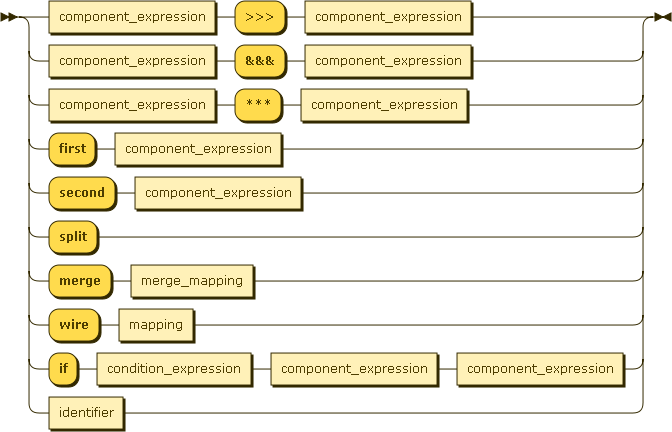
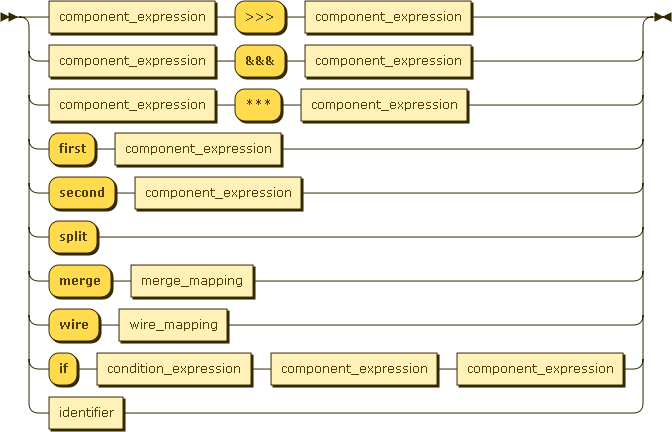
More PCLc documentation.

Changed region(s): [[0.25, 0.6921, 0.3438, 0.8125], [0.1875, 0.7222, 0.2188, 0.7824]]

diff --git a/documentation/chapters/compiler/compiler.tex b/documentation/chapters/compiler/compiler.tex
@@ -1,32 +1,93 @@
 \newcommand{\DiagramScale}{0.6}
 \chapter{PCLc}
+PLCc is the PCL compiler. It is located in the \texttt{src/pclc} directory of the Git clone and your path should be set according. This chapter introduces the PCL syntax using \emph{railroad diagrams}. Railroad diagrams illustrate valid PCL and are read from left to right, following the lines as a train would. The symbols in the yellow ovals are to be typed \emph{as is}. The symbols in the tan rectangles references another railroad diagram. The referenced diagram should be used to expand the rectangle in more valid PCL. Hexagons contain \emph{character classes} and specify a range of characters that will be accepted.
 
-\section{Syntax}
-\begin{figure}[!h]
+\section{PCL Syntax}
+\begin{figure}[h!]
   \centering
     \includegraphics[scale=\DiagramScale,angle=90]{chapters/compiler/diagrams/component}
   \caption{PCL file syntax.}
   \label{fig:pcl-top-level}
 \end{figure}
+The top level symtax of a PCL file is shown in Figure \ref{fig:pcl-top-level}, and consists of the following sections:
+\begin{itemize}
+\item \textbf{Imports}: Imports can be optionally specified. Importing, as in other language, makes available other components to the PCL component being written.
+\item \textbf{Component}: This starts the component definition and provides the name. The component's name must be the same as the filename. E.g., a component in \texttt{fred.pcl} must be called \texttt{fred}.
+\item \textbf{Inputs}: Defines the inputs of the component. This information is used to verify that the outputs of a previous component is compatible with another.
+\item \textbf{Outputs}: Defines the outputs of the component. This information is used to verify that the inputs of a subsequent component is compatible with another.
+\item \textbf{Configuration}: Optional configuration for the component. This is static data that shall be used to construct imported components used in this component. 
+\item \textbf{Declarations}: Optional declarations of components used in this component. This is where the import components are constructed.
+\item \textbf{Definition}: This portion is the component definition. It is an expression which defines how the constructed components are to be combined to create the computation required.
+\end{itemize}
 
 \subsection{Imports}
-\begin{figure}[!h]
+\begin{figure}[h!]
   \centering
     \includegraphics[scale=\DiagramScale]{chapters/compiler/diagrams/imports}
   \caption{\texttt{imports} : Importing PCL files.}
   \label{fig:pcl-imports}
 \end{figure}
+Extant PCL components can be used in other PCL components. The mechanism for using components is through importing. There can be zero or more imports in a PCL file. Figure \ref{fig:pcl-imports} shows the syntax for importing.
+
+The imported component is referenced using an identifier which can be fully qualified using a dot separated name. If the component is referenced using one or more dots the sequence of idenitifiers, apart from the last one, is used to address a package of components. The last identifier specifies the component name. The environment variable \texttt{PCL\_IMPORT\_PATH} is a colon separated list of directories from which a search shall take place for the PCL components. If this enivronment variable is not set then the current working directory is used as a starting point for the component search.
+
+Each imported component must specify an alias. This is the name by which this component shall be refered to in this PCL file. E.g., \texttt{import components.utility.sleep as sleep\_comp} shall import a PCL component called \texttt{sleep} from the package \texttt{components.utility} and shall be refered to as, i.e. has the alias, \texttt{sleep\_comp}.
 
 \subsection{Port Definition}
-\begin{figure}[!h]
+\begin{figure}[h!]
   \centering
     \includegraphics[scale=\DiagramScale,angle=90]{chapters/compiler/diagrams/port_definition}
   \caption{\texttt{port\_definition} : Component port definition.}
-  \label{fig:pcl-port-defs}
+  \label{fig:pcl-port-def}
 \end{figure}
+A port definition informs the PCL compiler about the nature of a component's input or an output. Components can have 2, 3 or 4 ports: one input and output port, one input port and two output ports, two input ports and one output port, or two input and output ports. Figure \ref{fig:pcl-port-def} shows the syntax for this grammatical construct.
+
+A port can carry one or more \emph{signals}. A signal is a piece of data that flows through ports and has a unique name to that port, and can be fully qualified\footnote{It may be easier to group signals through the use of a hierarchical naming convention, e.g., \texttt{a.b.c} and \texttt{a.b.d}.}. The signal names, for a port, are declared in a port definition. The ``shape'' of a port definition declares whether an input or an output has one or two ports. For example, consider the following input and output port definitions:
+\begin{itemize}
+\item A component with one input and one output port. Input signals are \texttt{tom}, \texttt{dick}, \texttt{harry} and output signals are \texttt{disley} and \texttt{standedge}.
+\begin{center}
+\begin{verbatim}
+component tunnel
+    inputs tom, dick, harry
+    outputs disley, standedge
+    ...
+\end{verbatim}
+\end{center}
+
+\item A component with one input and two output ports. Input signal is \texttt{fruit.banana}. The \emph{top} output port signal is \texttt{veg.carrot} and the \emph{bottom} output port signals are \texttt{fruit.super}, and \texttt{fruit.salad}.
+\begin{center}
+\begin{verbatim}
+component split
+    inputs fruit.banana
+    outputs ( veg.carrot ), ( fruit.super, fruit.salad )
+    ...
+\end{verbatim}
+\end{center}
+
+\item A component with two inputs and one output port. Input signals for the \emph{top} port are \texttt{tea} and \texttt{coffee}, and the signals for the \emph{bottom} port are \texttt{milk}, and \texttt{water}. The output port's single signal is \texttt{drink}.
+\begin{center}
+\begin{verbatim}
+component pot
+    inputs ( tea, coffee ), ( milk, water )
+    outputs drink
+    ...
+\end{verbatim}
+\end{center}
+
+\item A component with two input and output ports. Input signals for the \emph{top} port are \texttt{zippy} and \texttt{george}, and the signals for the \emph{bottom} port are \texttt{rod}, \texttt{jane}, and \texttt{freddy}. The output signals are for the \emph{top} port are \texttt{geoffrey}, and the \emph{bottom} port signals are \texttt{bungle} and \texttt{zippo}.
+\begin{center}
+\begin{verbatim}
+component rainbow
+    inputs ( zippy, george ), ( rod, jane, freddy )
+    outputs ( geoffrey ), ( bungle, zippo )
+    ...
+\end{verbatim}
+\end{center}
+
+\end {itemize}
 
 \subsection{Configuration}
-\begin{figure}[!h]
+\begin{figure}[h!]
   \centering
     \includegraphics[scale=\DiagramScale]{chapters/compiler/diagrams/configuration}
   \caption{\texttt{configuration} : Component configuraton.}
@@ -62,7 +123,15 @@
   \centering
     \includegraphics[scale=\DiagramScale]{chapters/compiler/diagrams/mapping}
   \caption{\texttt{mapping} : Mapping.}
-  \label{fig:pcl-signal-mapping}
+  \label{fig:pcl-mapping}
+\end{figure}
+
+\subsection{Wire Mapping}
+\begin{figure}[h!]
+  \centering
+    \includegraphics[scale=\DiagramScale]{chapters/compiler/diagrams/wire_mapping}
+  \caption{\texttt{wire\_mapping} : Wire mapping.}
+  \label{fig:pcl-wire-mapping}
 \end{figure}
 
 \subsection{Condition Expression}
@@ -104,3 +173,24 @@
   \caption{\texttt{literal} : Literal.}
   \label{fig:pcl-literal}
 \end{figure}
+
+\subsection{Example PCL file}
+This example PCL file can be found in the \texttt{parallel\_sleep} example PCL.
+\begin{figure}[!h]
+  \begin{verbatim}
+import sleep as sleep
+
+component parallel_sleep
+  input sleep_time
+  outputs (complete), (complete)
+  configuration sleep_command
+  declare
+    top_sleep := new sleep with sleep_command -> sleep_command
+    bottom_sleep := new sleep with sleep_command -> sleep_command
+  as
+    top_sleep &&& bottom_sleep
+  \end{verbatim}
+  \caption{Example PCL file.}
+\end{figure}
+
+\section{Usage}
